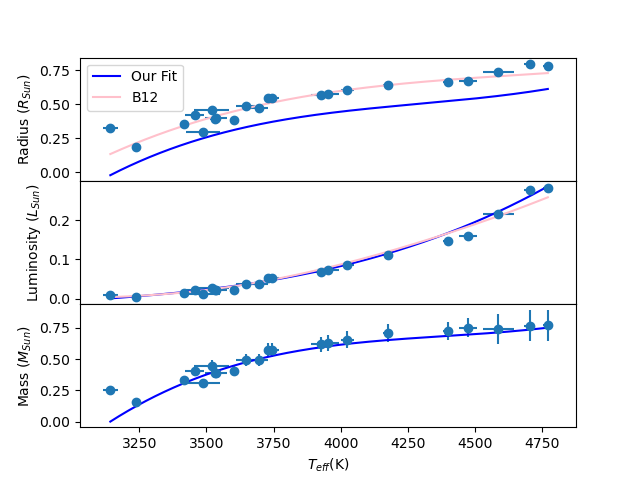
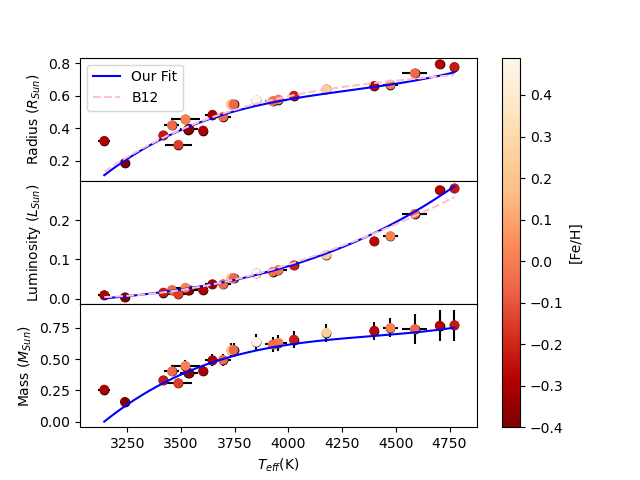
final figure done

diff --git a/Final_Project/reproduce_figure.py b/Final_Project/reproduce_figure.py
@@ -2,23 +2,23 @@ import matplotlib.pyplot as plt
 import numpy as np
 
 #info extracted from Table 1 in Mann et al 2013
-radius = [0.3863, 0.6398, 0.4840, 0.4183, 0.5477, 0.4712, 0.1869, 0.3924, 0.7949, 0.5773, 0.5673, 0.3982, 0.4546, 0.7390, 0.2990, 0.6697, 0.3561, 0.3232, 0.5472, 0.6611, 0.6010, 0.7784]
-radius_err = [0.0021, 0.0046, 0.0084, 0.0070, 0.0048, 0.0086, 0.0012, 0.0033, 0.0062, 0.0131, 0.0137, 0.0091, 0.0182, 0.0190, 0.0100, 0.0089, 0.0039, 0.0061, 0.0067, 0.0048, 0.0072, 0.0053]
+radius = [0.3863, 0.5735, 0.6398, 0.4840, 0.4183, 0.5477, 0.4712, 0.1869, 0.3924, 0.7949, 0.5773, 0.5673, 0.3982, 0.4546, 0.7390, 0.2990, 0.6697, 0.3561, 0.3232, 0.5472, 0.6611, 0.6010, 0.7784]
+radius_err = [0.0021, 0.0044, 0.0046, 0.0084, 0.0070, 0.0048, 0.0086, 0.0012, 0.0033, 0.0062, 0.0131, 0.0137, 0.0091, 0.0182, 0.0190, 0.0100, 0.0089, 0.0039, 0.0061, 0.0067, 0.0048, 0.0072, 0.0053]
 
-mass = [0.405, 0.711, 0.490, 0.403, 0.572, 0.494, 0.159, 0.392, 0.767, 0.630, 0.617, 0.390, 0.447, 0.740, 0.308, 0.749, 0.330, 0.257, 0.573, 0.727, 0.656, 0.771]
-mass_err = [0.041, 0.071, 0.049, 0.040, 0.057, 0.049, 0.016, 0.039, 0.124, 0.063, 0.062, 0.039, 0.045, 0.119, 0.031, 0.075, 0.033, 0.026, 0.057, 0.073, 0.066, 0.124]
+mass = [0.405, 0.637, 0.711, 0.490, 0.403, 0.572, 0.494, 0.159, 0.392, 0.767, 0.630, 0.617, 0.390, 0.447, 0.740, 0.308, 0.749, 0.330, 0.257, 0.573, 0.727, 0.656, 0.771]
+mass_err = [0.041, 0.064, 0.071, 0.049, 0.040, 0.057, 0.049, 0.016, 0.039, 0.124, 0.063, 0.062, 0.039, 0.045, 0.119, 0.031, 0.075, 0.033, 0.026, 0.057, 0.073, 0.066, 0.124]
 
-luminosity = [0.02256, 0.11174, 0.03694, 0.02228, 0.05181, 0.03694, 0.00342, 0.02134, 0.27615, 0.07316, 0.06875, 0.02214, 0.02834, 0.21609, 0.01181, 0.15953, 0.01573, 0.00927, 0.05250, 0.14606, 0.08468, 0.28046]
-luminosity_err = [0.00027, 0.00167, 0.00051, 0.00044, 0.00058, 0.00075, 0.00003, 0.00030, 0.00356, 0.00276, 0.00229, 0.00024, 0.00072, 0.00317, 0.00021, 0.00396, 0.00019, 0.00011, 0.00069, 0.00196, 0.00125, 0.00389]
+luminosity = [0.02256, 0.06449, 0.11174, 0.03694, 0.02228, 0.05181, 0.03694, 0.00342, 0.02134, 0.27615, 0.07316, 0.06875, 0.02214, 0.02834, 0.21609, 0.01181, 0.15953, 0.01573, 0.00927, 0.05250, 0.14606, 0.08468, 0.28046]
+luminosity_err = [0.00027, 0.00139, 0.00167, 0.00051, 0.00044, 0.00058, 0.00075, 0.00003, 0.00030, 0.00356, 0.00276, 0.00229, 0.00024, 0.00072, 0.00317, 0.00021, 0.00396, 0.00019, 0.00011, 0.00069, 0.00196, 0.00125, 0.00389]
 
-temperature = [3602, 4176, 3646, 3457, 3731, 3695, 3238, 3532, 4704, 3953, 3926, 3537, 3520, 4588, 3487, 4475, 3417, 3142, 3744, 4399, 4025, 4773]
-temperature_err = [13, 19, 34, 35, 16, 35, 11, 17, 21, 41, 37, 41, 66, 58, 62, 33, 17, 29, 27, 16, 24, 20]
+temperature = [3602, 3850, 4176, 3646, 3457, 3731, 3695, 3238, 3532, 4704, 3953, 3926, 3537, 3520, 4588, 3487, 4475, 3417, 3142, 3744, 4399, 4025, 4773]
+temperature_err = [13, 22, 19, 34, 35, 16, 35, 11, 17, 21, 41, 37, 41, 66, 58, 62, 33, 17, 29, 27, 16, 24, 20]
 
 Fe_H = [-0.3, 0.49, 0.24, -0.31, -0.05, 0.21, -0.06, -0.4, -0.38, -0.28, -0.01, -0.04, -0.37, 0.01, -0.06, -0.15, 0.01, -0.23, -0.3, -0.06, -0.27, -0.22, -0.23]
 
 #prescriptions for radius, mass, and luminosity from Mann et al 2013
 def radius_fct(temp):
-    return -16.883 + (1.18*10**(-2))*temp - (2.709*10**(-6))*temp**2 + (2.105*10**(-10))*temp**3
+    return -16.75 + (1.18*10**(-2))*temp - (2.709*10**(-6))*temp**2 + (2.105*10**(-10))*temp**3
 
 def luminosity_fct(temp):
     return -0.781 + (7.4*10**(-4))*temp - (2.49*10**(-7))*temp**2 + (2.95*10**(-11))*temp**3
@@ -34,30 +34,24 @@ def luminosity_b12(temp):
     return 10**(-5960.5710 + 4831.6912*np.log10(temp) - 1306.9966*(np.log10(temp))**2 + 117.9716*(np.log10(temp))**3)
 
 #reproduce figure
-# # Define a colormap
-# cmap = plt.get_cmap('viridis')
-
-# # Normalize the weights to range [0, 1]
-# norm = plt.Normalize(min(Fe_H), max(Fe_H))
-# normalized_weights = norm(Fe_H)
-#c=weights_rescaled, cmap=cmap, 
-
 fig, axs = plt.subplots(3, sharex=True, sharey=False, gridspec_kw={'hspace': 0,})
-axs[0].errorbar(temperature, radius, yerr = radius_err, xerr=temperature_err, fmt="o")
+axs[0].errorbar(temperature, radius, yerr = radius_err, xerr=temperature_err, fmt="o", zorder = 0, c = 'k')
+scatter1 = axs[0].scatter(temperature, radius, c=Fe_H, cmap='OrRd_r')
 axs[0].plot(np.arange(min(temperature), max(temperature)), radius_fct(np.arange(min(temperature), max(temperature))), color = 'b', label = "Our Fit")
-axs[0].plot(np.arange(min(temperature), max(temperature)), radius_b12(np.arange(min(temperature), max(temperature))), color = "pink", label = "B12")
+axs[0].plot(np.arange(min(temperature), max(temperature)), radius_b12(np.arange(min(temperature), max(temperature))), color = "pink", label = "B12", linestyle="dashed")
 axs[0].set_ylabel("Radius ($R_{Sun}$)")
 axs[0].legend()
-#residuals
-axs[1].errorbar(temperature, luminosity, yerr = luminosity_err, xerr=temperature_err, fmt="o")
+axs[1].errorbar(temperature, luminosity, yerr = luminosity_err, xerr=temperature_err, fmt="o", zorder = 0, c='k')
+axs[1].scatter(temperature, luminosity, c=Fe_H, cmap='OrRd_r')
 axs[1].plot(np.arange(min(temperature), max(temperature)), luminosity_fct(np.arange(min(temperature), max(temperature))), color = 'b', label = "Our Fit")
-axs[1].plot(np.arange(min(temperature), max(temperature)), luminosity_b12(np.arange(min(temperature), max(temperature))), color = "pink", label = "B12")
+axs[1].plot(np.arange(min(temperature), max(temperature)), luminosity_b12(np.arange(min(temperature), max(temperature))), color = "pink", label = "B12", linestyle="dashed")
 axs[1].set_ylabel("Luminosity ($L_{Sun}$)")
-#residuals
-axs[2].errorbar(temperature, mass, yerr = mass_err, xerr=temperature_err, fmt="o")
+axs[2].errorbar(temperature, mass, yerr = mass_err, xerr=temperature_err, fmt="o", zorder = 0, c= 'k')
+axs[2].scatter(temperature, mass, c=Fe_H, cmap='OrRd_r')
 axs[2].plot(np.arange(min(temperature), max(temperature)), mass_fct(np.arange(min(temperature), max(temperature))), color = 'b', label = "Our Fit")
 axs[2].set_ylabel("Mass ($M_{Sun})$")
 axs[2].set_xlabel("$T_{eff}$(K)")
+cbar = fig.colorbar(scatter1, ax=axs.ravel().tolist())
+cbar.set_label('[Fe/H]')
 plt.savefig("figure.png")
 plt.show()
-
